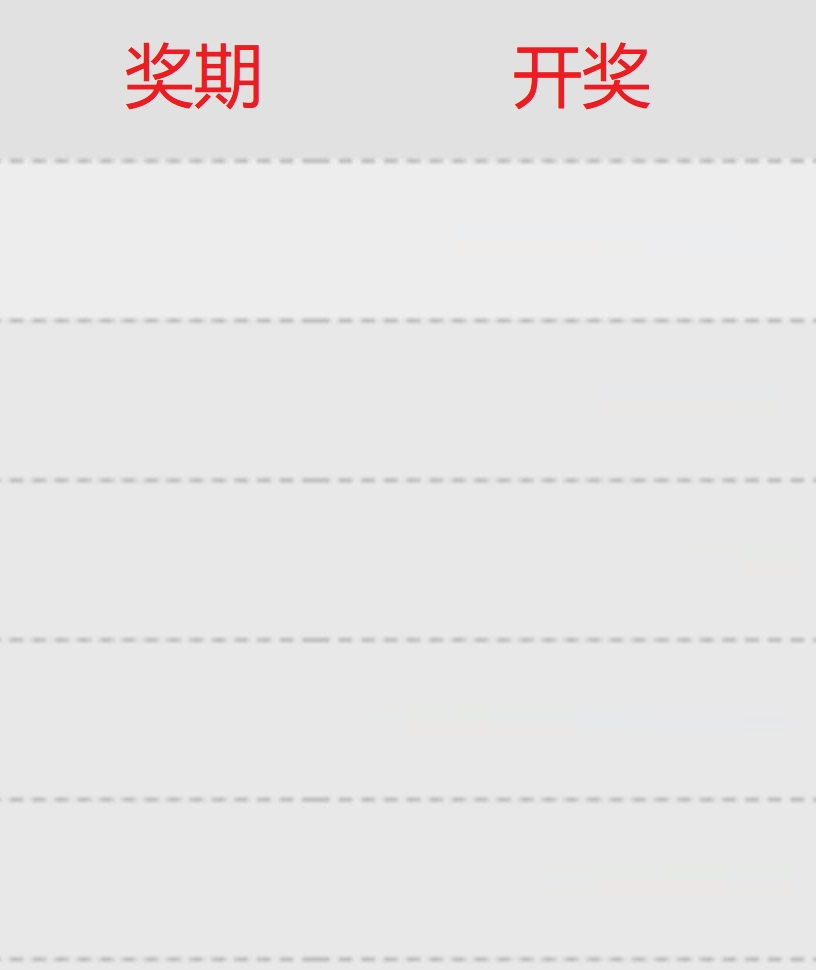
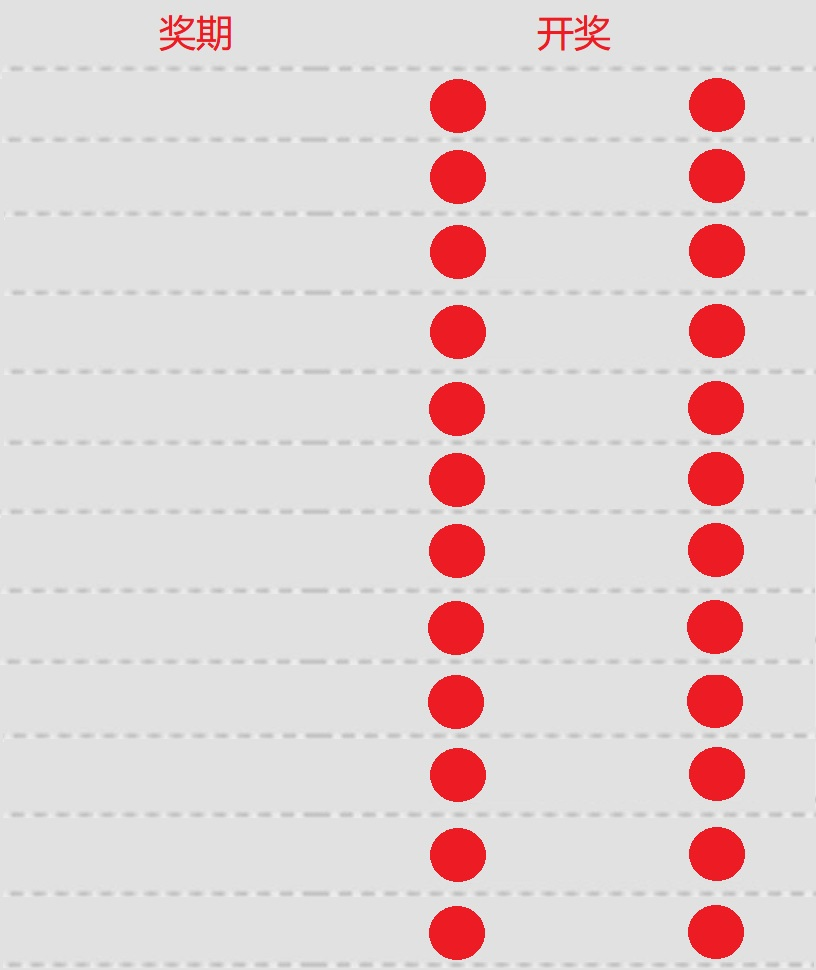
客户说图片需要几个红圈圈, 行数 12. 马匹, 屁事多

diff --git a/MainForm.cs b/MainForm.cs
@@ -341,7 +341,7 @@ namespace demo_win_httpsocket
                 if (lstBoxUser.SelectedItem is MemberItem user)
                 {
                     // 5. 如果有选中好友或群, 那么就生成一张包含 5 条开奖信息的图片, 发送出去
-                    var temp = array.Take(5).ToArray();
+                    var temp = array.Take(12).ToArray();
                     if (temp.Any(o => !o.Sended))
                     {
                         var file = Image.FromFile(@"asserts\template.jpg");
@@ -351,36 +351,43 @@ namespace demo_win_httpsocket
                             var item = temp[i];
                             image = image.Watermark(new TextLayer
                             {
-                                Position = new Point { X = 36, Y = 160 * (i + 1) + 58, },
+                                Position = new Point { X = 75, Y = 75 * (i + 1) + 12, },
                                 FontColor = Color.Black,
                                 Text = $"{item.Period} 期",
                                 DropShadow = false,
-                                FontSize = 50,
+                                FontSize = 40,
                                 Vertical = false,
-                                Opacity = 70,
-                                Style = FontStyle.Bold,
-                            }).Watermark(new TextLayer
-                            {
-                                Position = new Point { X = 480 - 36, Y = 160 * (i + 1) + 58, },
-                                FontColor = Color.Black,
-                                Text = $"{string.Join("   ", item.Award)}",
-                                DropShadow = false,
-                                FontSize = 50,
-                                Vertical = false,
-                                Opacity = 70,
+                                Opacity = 65,
                                 Style = FontStyle.Bold,
                             });
+
+                            for (int j = 0; j < item.Award.Length; j++)
+                            {
+                                var isFl = j == 0 || j == item.Award.Length - 1;
+                                image = image.Watermark(new TextLayer
+                                {
+                                    Position = new Point { X = 450 + 64 * j, Y = 75 * (i + 1) + 12, },
+                                    FontColor = isFl ? Color.White : Color.Black,
+                                    Text = $"{item.Award[j]}",
+                                    DropShadow = false,
+                                    FontSize = 40,
+                                    Vertical = false,
+                                    Opacity = isFl ? 100 : 65,
+                                    Style = FontStyle.Bold,
+                                });
+                            }
 
                             item.Sended = true;
                         }
                         using (var ms = new MemoryStream())
                         using (image)
+                        using (file)
                         {
-                            image.Format(new PngFormat()).Image.Save("x.png");
+                            image.Quality(1).Format(new JpegFormat()).Image.Save("x.jpg");
                         }
 
                         // 6. 发送图片
-                        _11_SENDFILE(user.UserName, "x.png");
+                        _11_SENDFILE(user.UserName, "x.jpg");
                     }
                 }
 

diff --git a/MainForm_11_SENDFILE.cs b/MainForm_11_SENDFILE.cs
@@ -1,4 +1,5 @@
 using HttpSocket;
+using System.IO;
 
 namespace demo_win_httpsocket
 {
@@ -15,21 +16,21 @@ namespace demo_win_httpsocket
             //{
 
             //}
-            //if (type.StartsWith("image/"))
-            //{
-            //    //发送图片
-            _15_WEBWXSENDEMOTICON(userid, UserName, MediaId, 47);
-            //}
-            //else
-            //{
-            //    var Message = "<appmsg appid='" + WEB["APPID"] + "' sdkver=''><title>{filename}</title><des></des><action></action><type>6</type><content></content><url></url><lowurl></lowurl><appattach><totallen>{filelength}</totallen><attachid>{attachid}</attachid><fileext>{filetype}</fileext></appattach><extinfo></extinfo></appmsg>";
-            //    Message = Message.Replace("{attachid}", MediaId);
-            //    Message = Message.Replace("{filename}", Path.GetFileName(filename));
-            //    Message = Message.Replace("{filelength}", "" + File.ReadAllBytes(filename).Length);
-            //    Message = Message.Replace("{filetype}", Path.GetExtension(filename).TrimStart(new char[] { '.' }));
+            if (type.StartsWith("image/"))
+            {
+                //发送图片
+                _15_WEBWXSENDEMOTICON(userid, UserName, MediaId, 47);
+            }
+            else
+            {
+                var Message = "<appmsg appid='" + WEB["APPID"] + "' sdkver=''><title>{filename}</title><des></des><action></action><type>6</type><content></content><url></url><lowurl></lowurl><appattach><totallen>{filelength}</totallen><attachid>{attachid}</attachid><fileext>{filetype}</fileext></appattach><extinfo></extinfo></appmsg>";
+                Message = Message.Replace("{attachid}", MediaId);
+                Message = Message.Replace("{filename}", Path.GetFileName(filename));
+                Message = Message.Replace("{filelength}", "" + File.ReadAllBytes(filename).Length);
+                Message = Message.Replace("{filetype}", Path.GetExtension(filename).TrimStart(new char[] { '.' }));
 
-            //    _16_WEBWXSENDAPPMSG(userid, UserName, Message, 6);
-            //}
+                _16_WEBWXSENDAPPMSG(userid, UserName, Message, 6);
+            }
         }
     }
 }

diff --git a/MainForm_15_WEBWXSENDEMOTICON.cs b/MainForm_15_WEBWXSENDEMOTICON.cs
@@ -15,11 +15,13 @@ namespace demo_win_httpsocket
         /// <param name="type"></param>
         void _15_WEBWXSENDEMOTICON(string FromUserName, string ToUserName, string MediaID, int type = 47)
         {
-            Dictionary<string, string> KEYS = new Dictionary<string, string>();
-            KEYS["FROMUSERNAME"] = ToUserName;
-            KEYS["TOUSERNAME"] = FromUserName;
-            KEYS["TYPE"] = type + "";
-            KEYS["MEDIAID"] = MediaID;
+            var KEYS = new Dictionary<string, string>
+            {
+                ["FROMUSERNAME"] = ToUserName,
+                ["TOUSERNAME"] = FromUserName,
+                ["TYPE"] = type + "",
+                ["MEDIAID"] = MediaID
+            };
 
             _ShowMessage(System.Reflection.MethodInfo.GetCurrentMethod().Name);
 
@@ -48,6 +50,7 @@ Cookie: webwxuvid=bebe27f97a88e8ce573a38b4c48984e8f578650b8ba48b2bacce4ec572e41a
         void _15_Response(LxwResponse o)
         {
             //不做任何处理
+            var x = o.Value;
         }
     }
 }
